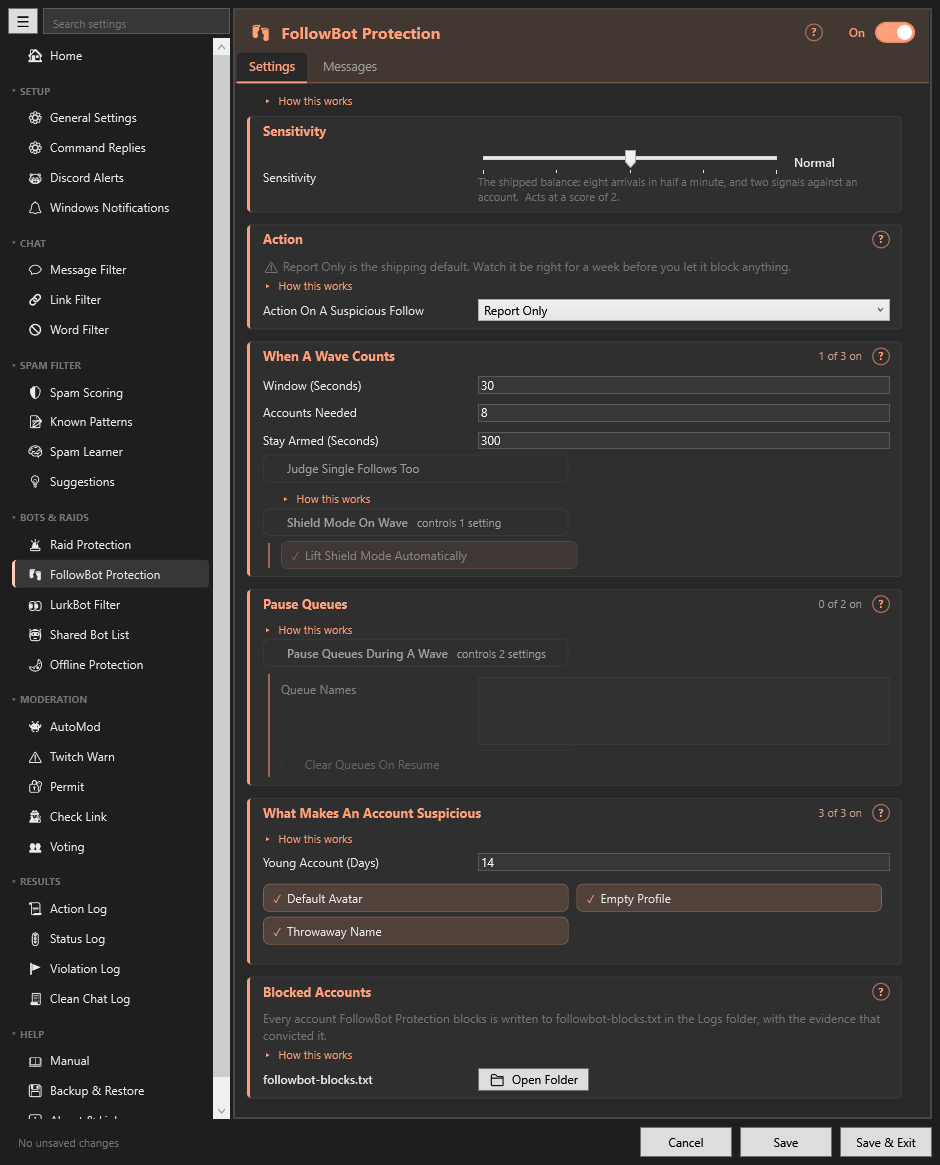
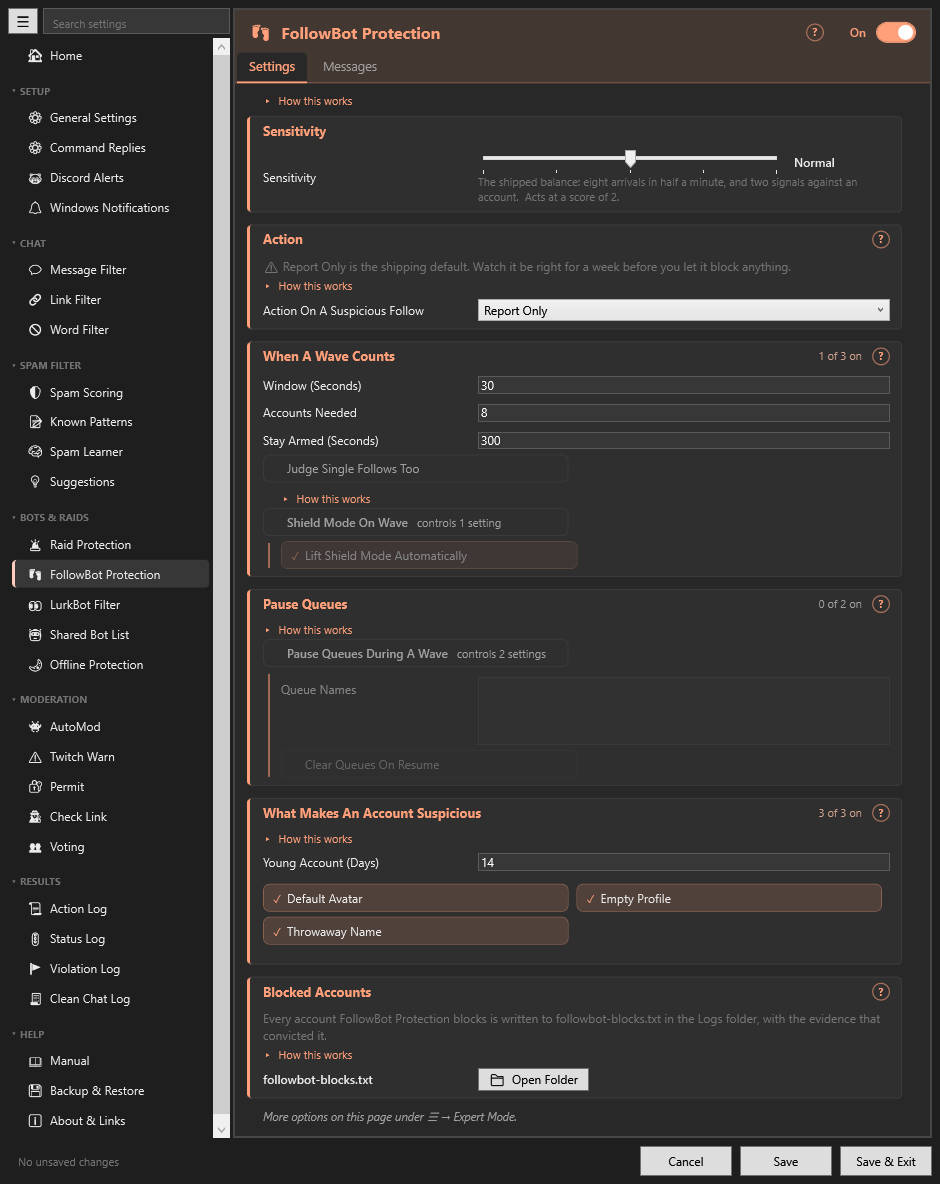
Expert mode hint, credits for data and services, pinned page band
- Pages with expert-only settings say so under their last card (all languages, Manual, screenshots)
- README credits list the data and services TwitchSentry uses; window strings for the new credits card
- German 'How this works' reads 'Was ist das'

diff --git a/README.md b/README.md
@@ -92,5 +92,14 @@ The settings window ships in English but you can download also: German, Spanish,
 
 [Streamer.bot](https://streamer.bot) by [nate1280](https://www.patreon.com/c/nate1280/home) · [enNemMesS](https://extensions.streamer.bot/u/ennemmess/summary) · [Stoshy89 (Tester)](https://www.twitch.tv/stoshy89) · [DutchyRay (Dutch Translation)](https://www.twitch.tv/dutchyray) · YOU ♡
 
+## Data and services
+
+- [stop-words](https://github.com/Alir3z4/stop-words) by Alir3z4 ([CC BY 4.0](https://creativecommons.org/licenses/by/4.0/)): the Spam Learner downloads these lists to leave ordinary words alone.
+- [Unicode confusables](https://www.unicode.org/reports/tr39/) (© Unicode, Inc., [Unicode License V3](https://www.unicode.org/license.txt)) and [YayText](https://yaytext.com): the lookalike-letter table that reads fancy-font spam as plain letters is built from them.
+- [IANA](https://www.iana.org/domains/root/db): the list of top-level domains the link checks recognise.
+- [Stop The Bots](https://transparent-aluminium.net): the spam domains and keywords TwitchSentry ships with.
+- [pronouns.alejo.io](https://pronouns.alejo.io) by Alejo: viewer pronouns, looked up through Streamer.bot.
+- [Reward checker](https://ayrtonalexis.com/reward_checker/reward_check.html) by ayrtonalexis: finds a Channel Points reward's ID for Permit.
+
 ## Socials
 [aaskjer on Twitch](https://twitch.tv/aaskjer) · [TwitchSentry on the Streamer.bot Discord](https://discord.com/channels/834650675224248362/1512133095246270616)

diff --git a/Manual.md b/Manual.md
@@ -157,7 +157,7 @@ Switched on from the ☰ menu. While it runs, nothing is deleted, timed out or b
 
 
 `Easy Mode` is active by default, intended for users new to TwitchSentry or this type of system at all. Simplified settings with a **sensitivity slider** to choose — `Very relaxed` through `Very strict`, with a line under it saying what the step actually means and does. 
-Also in the ☰ menu. Expert mode reveals the individual numbers the slider is moving for you. In expert mode `Custom` gives you the possibility to create your own slider sensitivity and is remembered by the GUI if you move away from it, as long as you have hit `save` once.
+Also in the ☰ menu. Expert mode reveals the individual numbers the slider is moving for you; a page that has such settings says so under its last card while expert mode is off. In expert mode `Custom` gives you the possibility to create your own slider sensitivity and is remembered by the GUI if you move away from it, as long as you have hit `save` once.
 
 `Custom` only appears while expert mode is on: the rows it keeps *are* the expert rows, so there is nothing to tune without them, and with expert mode off the slider ends at `Very strict`. A slider that is *already* sitting on `Custom` keeps the stop either way — switching expert mode off never drops a preset column over numbers you tuned yourself.
 
